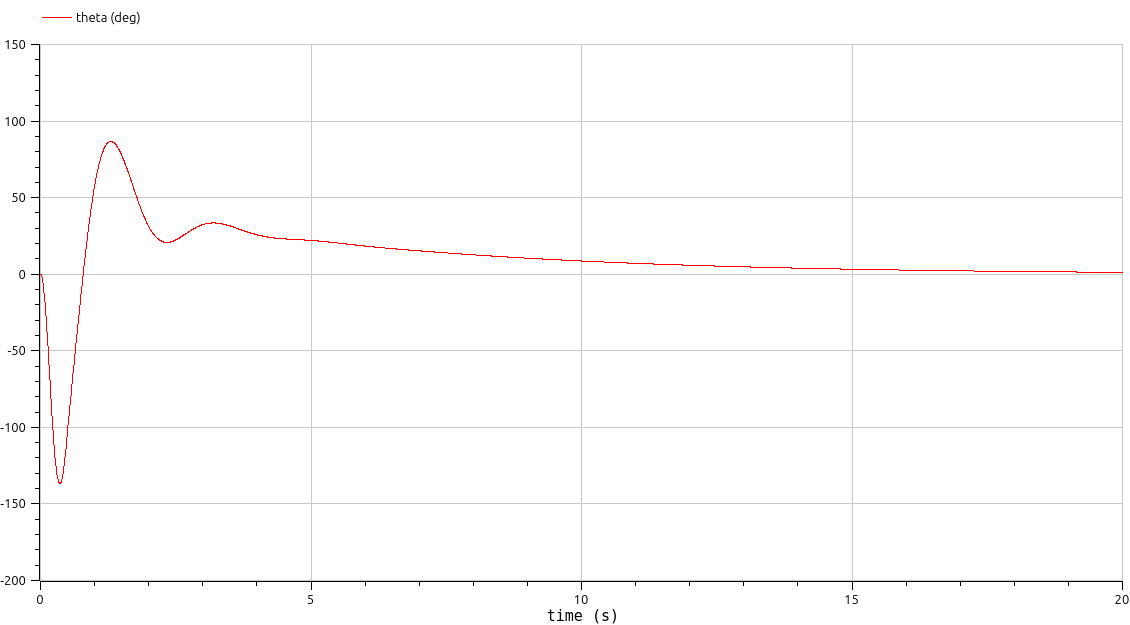
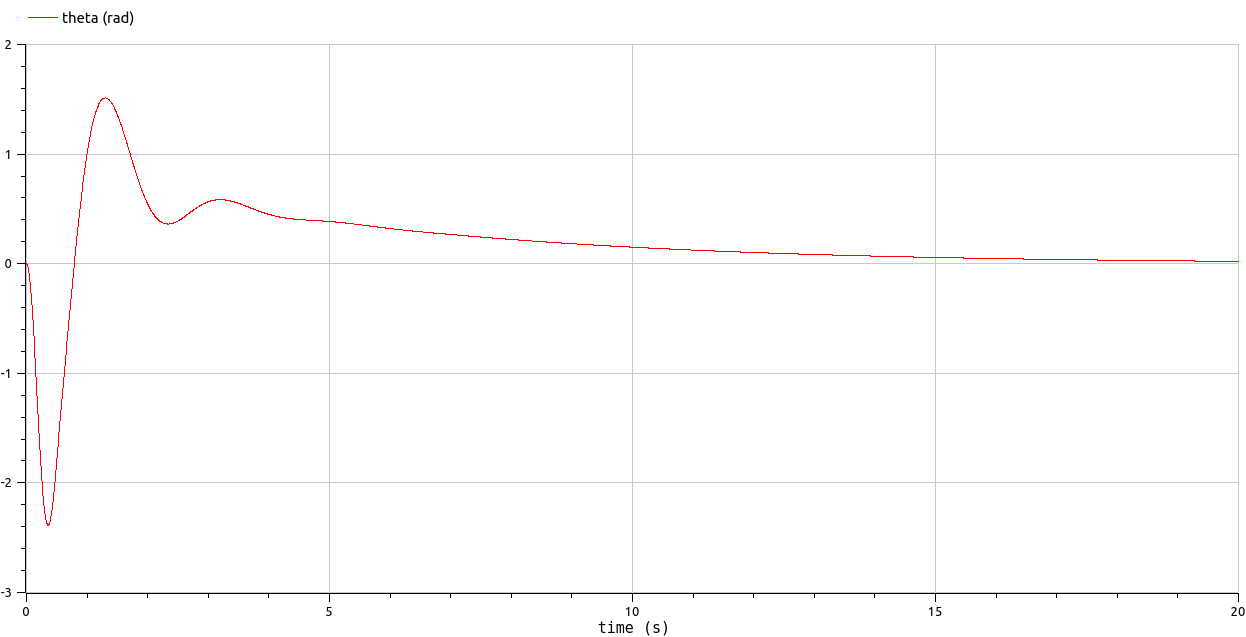
Modified animation file, changed theta png from deg to rad

diff --git a/Assignment_1/animation_code.py b/Assignment_1/animation_code.py
@@ -17,6 +17,44 @@ from matplotlib.patches import Rectangle
 
 matplotlib.use('TkAgg')
 
+# You need scipy package to read MAT-files
+from scipy import io
+# Reuse this exact function to read MAT-file data.
+# matFileName is the name of the MAT-file generated on execution of a Modelica executable
+# The output is [names, data] where names is an array of strings which are names of variables, data is an array of values of the associated variable in the same order
+def readMat(matFileName):
+    dataMat =  io.loadmat(matFileName)
+    names = [''] * len(dataMat['name'][0])
+    data = [None] * len(names)
+    # Check if the matrix of metadatas are transposed.
+    if dataMat['Aclass'][3] == 'binTrans':
+        # If the matrix of  matadata needs to be transposed, the names nead to be read from each string
+        for x in range(len(dataMat['name'])):
+            for i in range(len(dataMat['name'][x])):
+                if dataMat['name'][x][i] != '\x00':
+                    names[i] = names[i] + dataMat['name'][x][i]
+        # If the matrix of metadata needs to be transposed, the index of variable trace needs to be read in a transposed fashion
+        for i in range(len(names)):
+            # If it is a variable, read the whole array
+            if (dataMat['dataInfo'][0][i] == 0) or (dataMat['dataInfo'][0][i] == 2):
+                data[i] = dataMat['data_2'][dataMat['dataInfo'][1][i]-1]
+            # If it is a parameter, read only the first value
+            elif dataMat['dataInfo'][0][i] == 1:
+                data[i] = dataMat['data_1'][dataMat['dataInfo'][1][i]-1][0]
+    else:
+        # If the matrix of metadata need not be transposed, the names can be read directly as individual strings
+        names = dataMat['name']
+        # If the matrix of metadata need not be transposed, the index of variable trace needs to be read directly
+        for i in range(len(names)):
+            # If it is a variable, read the whole array
+            if (dataMat['dataInfo'][i][0] == 0) or (dataMat['dataInfo'][i][0] == 2):
+                data[i] = dataMat['data_2'][dataMat['dataInfo'][i][1]-1]
+            # If it is a parameter, read only the first value
+            elif dataMat['dataInfo'][i][0] == 1:
+                data[i] = dataMat['data_1'][dataMat['dataInfo'][i][1]-1][0]
+    # Return the names of variables, and their corresponding values
+    return [names,data]
+
 
 def animate_gantry_system(x_array, theta_array, length, interval=1):
     """
@@ -93,10 +131,19 @@ def animate_gantry_system(x_array, theta_array, length, interval=1):
 
 
 # Example usage:
-if __name__ == '__main__':
+if __name__ == "__main__":
     # Sample data for x and theta
-    t = np.linspace(0, 10, 200)
-    x = 2 * np.sin(0.5 * t)  # Example cart positions
-    theta = 0.2 * np.sin(2 * t)  # Example pendulum angles (in radians)
+    # t = np.linspace(0, 10, 200)
+    # x = 2 * np.sin(0.5 * t)  # Example cart positions
+    # theta = 0.2 * np.sin(2 * t)  # Example pendulum angles (in radians)
+
+    # Obtain the variable values by reading the MAT-file
+    names, data = readMat("GantryControlSystem.CraneModel/CraneModel_res.mat")
+    x = data[names.index("x")]
+    theta = data[names.index("theta")]
+
     # Call the animation function with sample data
+    # NOTE: if max(x) is very big compared to the cart, the pendulum will not be visible
+    # this can somewhat be fixed by replacing the equal in `ax.set_aspect('equal')` with auto inside the function, but it will look somewhat wonky
+    # You can also divide x to make it smaller
     animate_gantry_system(x, theta, length=1, interval=0.004)

diff --git a/Assignment_1/simulate.py b/Assignment_1/simulate.py
@@ -17,7 +17,7 @@ def singleSimulation(m=0.2, M=10.0, r=1, d_p=0.5, d_c=2, g=9.81):
     # Obtain the variable values by reading the MAT-file
     [names, data] = readMat('CraneModel_res.mat')
     # Create a plot of the Temperature over time in the simulation
-    openDataPlot([data[0]],[data[1]],'time (seconds)','theta (radians)')
+    openDataPlot([data[0]],[data[names.index("theta")]],'time (seconds)','theta (radians)')
 
 # You need scipy package to read MAT-files
 from scipy import io
